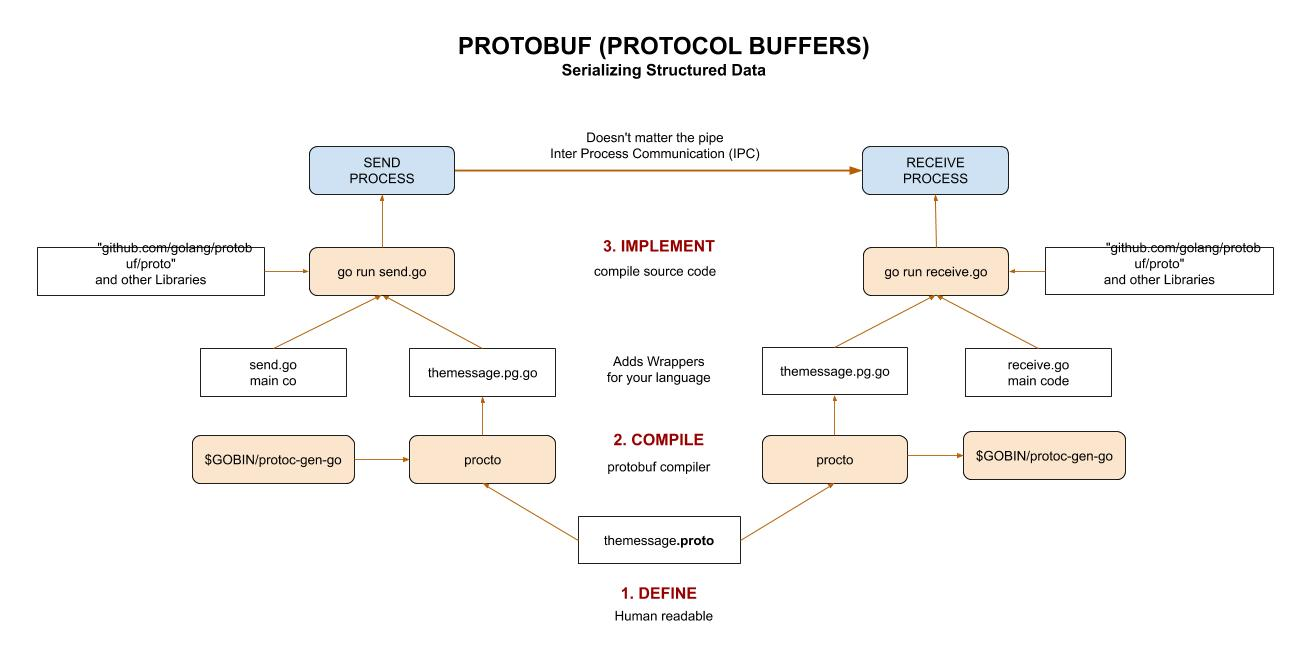
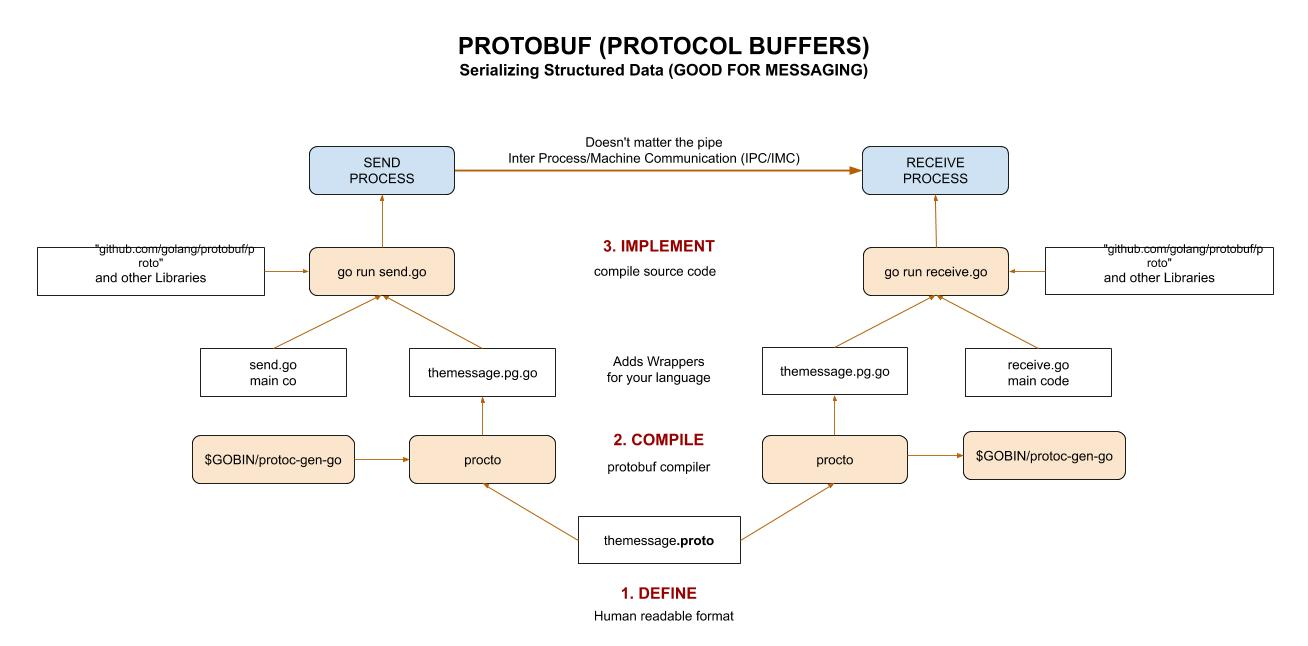
updating protobuf

diff --git a/software/development/software-architectures/messaging/protobuf-cheat-sheet/README.md b/software/development/software-architectures/messaging/protobuf-cheat-sheet/README.md
@@ -22,6 +22,16 @@ Then your client and your server can take that .proto
 file and compile it (using protoc) to their language of
 choice and use it in their microservice/app/service.
 
+Or top state again, the whole purpose of using
+protocol buffers is to serialize
+your data so that it can be parsed elsewhere.
+
+The flow is,
+
+1. Define the message format (using .proto file)
+1. Compile the .proto file to your language
+1. Implement - Use proto file in your code
+
 Here is an illustration,
 
 ![IMAGE - protobuf - IMAGE](../../../../../docs/pics/protobuf.jpg)
@@ -52,21 +62,27 @@ Check version,
 protoc --version
 ```
 
+Almost done, now we need the libraries and the protobuf compile
+for your language. 
+
 ## INSTALL LIBRARIES FOR GO
 
 ```bash
 go get -u github.com/golang/protobuf/protoc-gen-go
 ```
 
-This will get the libraries and
-place `protoc-gen-go` in `$GOPATH/bin/protoc-gen-go`.
+This will,
 
-## .PROTO FILE (VER3)
+* Get the libraries and place in /src/github.com/golang/protobuf
+* Place `protoc-gen-go` binary (used for protoc) in `$GOPATH/bin/protoc-gen-go`
+
+## 1. DEFINE - .proto FILE
 
 The .proto file defines the message format
-in readable form.
+in readable form.  We are using version 3 or
+`proto3` of this file format.
 
-As an example I use in my repo
+As an example that I use in my repo
 [my-go-examples](https://github.com/JeffDeCola/my-go-examples/tree/master/messaging/protobuf)
 
 ```txt   
@@ -86,7 +102,7 @@ message AddressBook {
 }
 ```
 
-## RUN PROTOC
+## 2. COMPILE - RUN PROTOC
 
 `protoc` is the protocol buffer compiler that will
 compile the `messages.proto` file to a readable form
@@ -96,11 +112,13 @@ for your particular language.
 protoc --go_out=. messages.proto
 ```
 
+## 3. IMPLEMENT - IN YOUR CODE
+
+Refer to my repo with go examples using protobuf
+[here](https://github.com/JeffDeCola/my-go-examples/tree/master/messaging).
+
 ## USEFUL FOR RPC
 
 Protobuf serves as a basis for a custom remote procedure
 call (RPC) system that can be used for
 inter-machine communication.
-
-The whole purpose of using protocol buffers is to serialize
-your data so that it can be parsed elsewhere.
